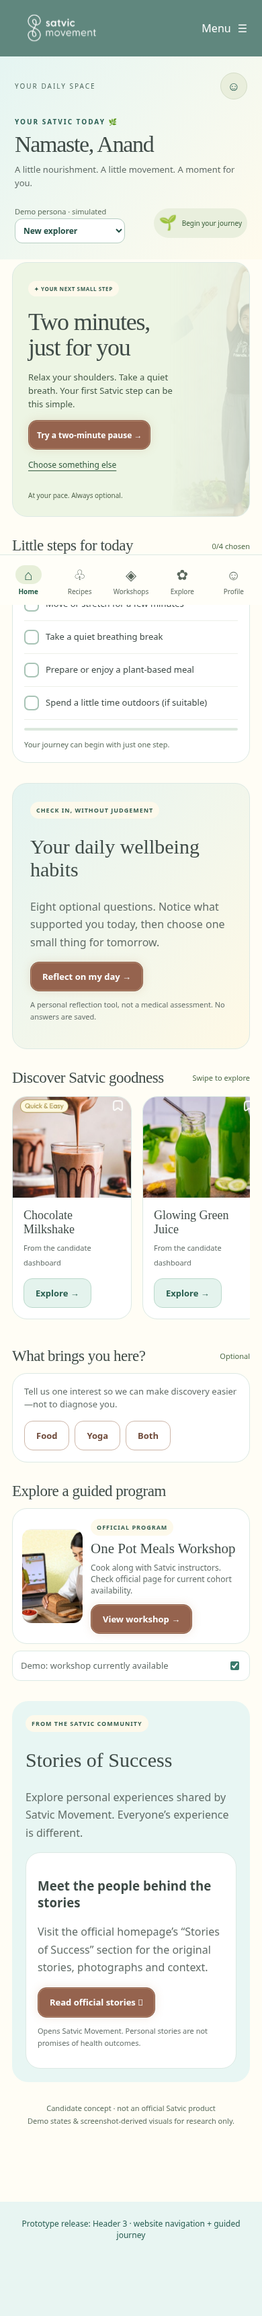
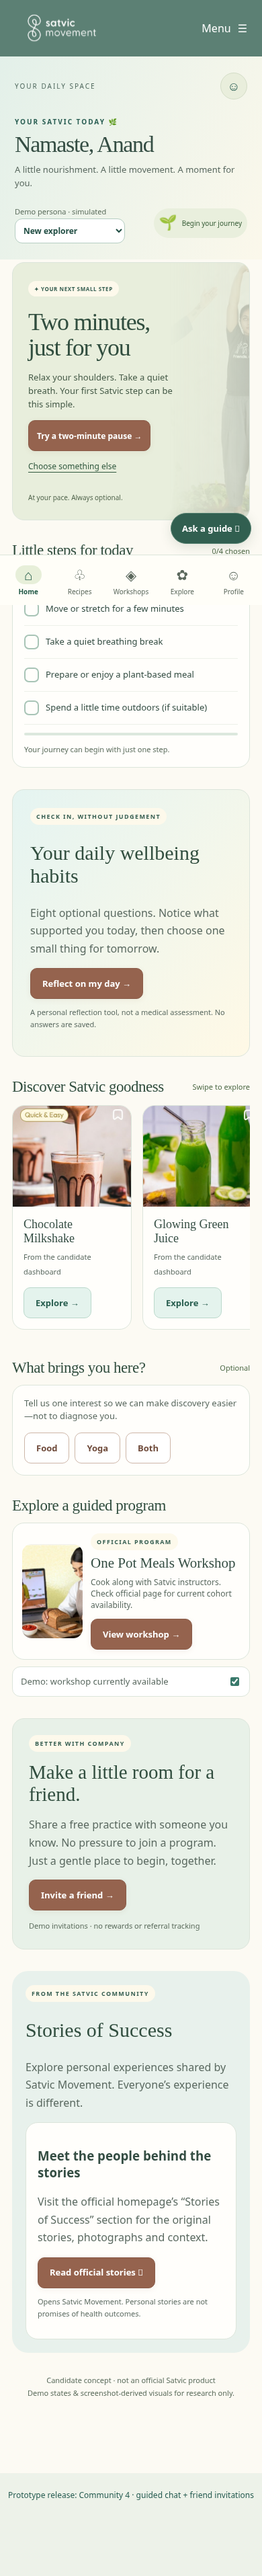
Add guided discovery chat and shareable friend invitations

diff --git a/community.js b/community.js
@@ -1,0 +1,37 @@
+// Local prototype guidance; no messages or referral events are sent to a server.
+let chatMessages = [], referralStatus = '';
+function startCommunity(type){
+ if(type==='chat')chatMessages=[{who:'guide',text:'Namaste. What would make today a little easier? I can help you find a short practice, a recipe or a guided program.'}];
+ if(type==='referral'){referralStatus='';if(!state.referralCode||!/^demo-[a-f0-9]{12}$/.test(state.referralCode)){const bytes=crypto.getRandomValues(new Uint8Array(6));state.referralCode='demo-'+Array.from(bytes,x=>x.toString(16).padStart(2,'0')).join('');save();}}
+}
+function referralUrl(){const url=new URL('./',location.href);url.searchParams.set('ref',state.referralCode);return url.href;}
+async function copyInvitation(){
+ const input=document.getElementById('referral-url');
+ try{await navigator.clipboard.writeText(referralUrl());referralStatus='Invitation link copied. Share it with someone you know.';}
+ catch{input.focus();input.select();referralStatus='Select and copy this link to share your invitation.';}
+ const status=document.getElementById('referral-status');if(status)status.textContent=referralStatus;
+}
+async function shareInvitation(){
+ if(!navigator.share){await copyInvitation();return;}
+ try{await navigator.share({title:'A small Satvic step, together',text:'Try a free two-minute pause with me. This is a Satvic concept prototype.',url:referralUrl()});}
+ catch(e){if(e.name!=='AbortError')await copyInvitation();}
+}
+function askGuide(message){
+ const text=String(message).trim().slice(0,300);if(!text)return;
+ let answer='Start with what feels manageable. Try a quiet pause, explore a recipe, or view guided programs. What interests you most?',action='';
+ if(/pain|diabet|disease|medic|cure|diagnos|symptom|eczema|treat/i.test(text))answer='I can help with finding general wellbeing content, but cannot assess symptoms, diagnose or recommend treatment. Please speak with a qualified healthcare professional about medical questions.';
+ else if(/refer|friend|invite|peer/i.test(text)){answer='A small practice can be easier with company. Create a demo invitation link for a friend. There are no rewards or tracked referrals in this prototype.';action='referral';}
+ else if(/food|meal|recipe|cook/i.test(text)){answer='Make your next step something nourishing. Browse the recipe collection and open the official source for preparation details.';action='Recipes';}
+ else if(/class|program|workshop|yoga|price|enrol/i.test(text)){answer='Explore guided programs at your pace. Current prices, schedules and enrollment are available on the official program pages.';action='Workshops';}
+ else if(/pause|stress|breath|sleep|quiet|begin|start/i.test(text)){answer='Begin with two minutes of gentle breathing. There is no breath holding, and you can pause or leave whenever you like.';action='practice';}
+ chatMessages.push({who:'you',text},{who:'guide',text:answer,action});chatMessages=chatMessages.slice(-12);render();document.getElementById('chat-input')?.focus();document.querySelector('.chat-log')?.scrollTo(0,99999);
+}
+function guideAction(action){if(['Recipes','Workshops'].includes(action)){closeModal();tab(action);}else openModal(action);}
+function communityModal(){
+ if(!state.modal||!['chat','referral'].includes(state.modal.type))return null;
+ const isChat=state.modal.type==='chat';const title=isChat?'Find your next step':'A small step, shared';
+ const body=isChat?`<p class="hint">Scripted prototype guide · not AI or a human adviser. Messages stay in this visit. Please do not enter personal or medical details.</p><div class="chat-log" role="log" aria-live="polite" aria-label="Conversation">${chatMessages.map(m=>`<div class="chat-message ${m.who}"><span>${m.who==='you'?'You':'Satvic guide'}</span><p>${h(m.text)}</p>${m.action?`<button class="btn secondary" onclick="guideAction('${m.action}')">${({practice:'Try a free pause',Recipes:'Explore recipes',Workshops:'View programs',referral:'Invite a friend'})[m.action]}</button>`:''}</div>`).join('')}</div><div class="chat-suggestions">${['Help me begin','Easy meal ideas','Explore yoga','Invite a friend'].map(t=>`<button onclick="askGuide('${t}')">${t}</button>`).join('')}</div><form onsubmit="event.preventDefault();askGuide(document.getElementById('chat-input').value)"><label for="chat-input">What are you looking for?</label><div class="chat-compose"><input id="chat-input" maxlength="300" autocomplete="off" placeholder="A practice, recipe or program…" required><button class="btn" type="submit">Send</button></div></form>`:`<p>Know someone who could use a quiet moment? Invite them to try a free practice before exploring anything else.</p><ol class="referral-steps"><li>Share your invitation link.</li><li>Your friend tries a two-minute pause.</li><li>Explore and keep going at your own pace.</li></ol><label for="referral-url">Your demo invitation link</label><input class="referral-input" id="referral-url" readonly value="${h(referralUrl())}"><div class="actions"><button class="btn" onclick="copyInvitation()">Copy invitation link</button><button class="btn secondary" onclick="shareInvitation()">Share with a friend</button></div><p id="referral-status" role="status">${h(referralStatus)}</p><p class="hint">Demo referral program. No rewards, account attribution, clicks or sign-ups are tracked. Only a random demo link code is stored on this device; no contacts are collected.</p>`;
+ return `<div class="modalback" onclick="closeModal()"><section class="modal community-modal" role="dialog" aria-modal="true" aria-label="${title}" onclick="event.stopPropagation()"><button class="x" aria-label="Close dialog" onclick="closeModal()">✕</button><div class="eyebrow">A little guidance. A little company.</div><h2>${title}</h2>${body}</section></div>`;
+}
+function inviteCard(){return `<section class="section invite-section"><div class="card invite-card"><span class="pill">BETTER WITH COMPANY</span><h2>Make a little room for a friend.</h2><p>Share a free practice with someone you know. No pressure to join a program. Just a gentle place to begin, together.</p><button class="btn" onclick="openModal('referral')">Invite a friend →</button><span class="hint">Demo invitations · no rewards or referral tracking</span></div></section>`;}
+function invitationBanner(){const ref=new URLSearchParams(location.search).get('ref');return /^demo-[a-f0-9]{12}$/.test(ref||'')?`<aside class="invitation-banner"><span class="pill">A FRIEND INVITED YOU</span><h2>A quiet beginning, shared with you.</h2><p>Try a free two-minute pause. No account needed. This is a demo invitation; no referral is tracked.</p><button class="btn" onclick="openModal('practice')">Try my first pause</button></aside>`:'';}

diff --git a/app.js b/app.js
@@ -86,6 +86,7 @@ for (const [key, value] of Object.entries(state.history))
     ? [...new Set(value.filter((n) => Number.isInteger(n) && n >= 0 && n < 4))]
     : [];
 state.modal = null;
+if(/^demo-[a-f0-9]{12}$/.test(new URLSearchParams(location.search).get('ref')||'')) state.tab='Home';
 const checked = () => state.history[today()] || [];
 function streak() {
   let d = new Date(),
@@ -117,6 +118,7 @@ let modalTrigger = null;
 function openModal(type, id) {
   if(!state.modal) modalTrigger = document.activeElement;
   startJourney(type);
+  startCommunity(type);
   state.modal = { type, id };
   render();
   document.querySelector(".modal .x").focus();
@@ -206,7 +208,7 @@ function onboard() {
   return `<section class="section"><div class="card practice"><span class="pill">WELCOME · STEP ${k + 1} OF 3</span><h2>${["A gentle beginning", "Choose what interests you", resolveNextAction(state.persona, state.goal).title][k]}</h2><p class="muted">${["We’ll help you find your next meaningful step.", "Start with an interest; you can always change it.", resolveNextAction(state.persona, state.goal).description][k]}</p>${k === 1 ? `<div class="actions">${["Food", "Yoga", "Both"].map((x) => `<button class="btn ${state.goal === x ? "" : "ghost"}" onclick="update({goal:'${x}'})">${x}</button>`).join("")}</div>` : ""}<div class="actions"><button class="btn" onclick="update({onboard:${k + 1}})">${k === 2 ? "Finish setup" : "Continue"} →</button><button class="btn secondary" onclick="update({onboard:3})">Skip</button></div></div></section>`;
 }
 function home() {
-  return `${hero()}${onboard()}${practice()}${wellbeing()}${content()}${goals()}${workshop()}${stories()}`;
+  return `${invitationBanner()}${hero()}${onboard()}${practice()}${wellbeing()}${content()}${goals()}${workshop()}${inviteCard()}${stories()}`;
 }
 function secondary() {
   let p = state.tab;
@@ -219,6 +221,7 @@ function secondary() {
   return `<div class="section-title"><h2>Your journey</h2></div><div class="card practice"><h3>Welcome, Anand 🌱</h3><p class="muted">Demo profile. Preferences and daily check-ins save locally.</p><div class="switchline">Daily reminder (demo only)<input type="checkbox" aria-label="Daily reminder" ${state.reminder ? "checked" : ""} onchange="update({reminder:this.checked})"></div><button class="btn secondary" onclick="resetDemo()">Reset demo data</button></div>`;
 }
 function modal() {
+  const community=communityModal();if(community!==null)return community;
   const custom=specialModal(); if(custom!==null)return custom;
   if (!state.modal) return "";
   let m = state.modal;
@@ -285,7 +288,7 @@ function render() {
   const focusLabel = focus?.getAttribute("aria-label");
   const focusText = focus?.tagName === "BUTTON" ? focus.textContent : null;
   document.getElementById("app").innerHTML =
-    `<div id="page-content" ${state.modal ? "inert" : ""}>${header()}${!storageAvailable ? '<div class="notice" role="status">Storage is unavailable. You can still explore; changes last for this visit.</div>' : ""}<div class="content screen">${state.tab === "Home" ? home() : secondary()}<p class="hint">Candidate concept · not an official Satvic product<br>Demo states & screenshot-derived visuals for research only.</p></div>${nav()}</div>${modal()}`;
+    `<div id="page-content" ${state.modal ? "inert" : ""}>${header()}${!storageAvailable ? '<div class="notice" role="status">Storage is unavailable. You can still explore; changes last for this visit.</div>' : ""}<div class="content screen">${state.tab === "Home" ? home() : secondary()}<p class="hint">Candidate concept · not an official Satvic product<br>Demo states & screenshot-derived visuals for research only.</p></div>${nav()}<button class="guide-launcher" onclick="openModal('chat')" aria-label="Open Satvic guide">Ask a guide <span aria-hidden="true">↗</span></button></div>${modal()}`;
   if (!state.modal) {
     const target = focusLabel
       ? document.querySelector(`[aria-label="${CSS.escape(focusLabel)}"]`)
@@ -300,7 +303,7 @@ function render() {
 document.addEventListener("keydown", (e) => {
   if (e.key === "Escape" && state.modal) closeModal();
   if (e.key === "Tab" && state.modal) {
-    const items = [...document.querySelectorAll(".modal button,.modal a")];
+    const items = [...document.querySelectorAll(".modal button,.modal a,.modal input:not([disabled])")];
     const first = items[0],
       last = items.at(-1);
     if (e.shiftKey && document.activeElement === first) {

diff --git a/styles.css b/styles.css
@@ -880,3 +880,7 @@ body{background:#e8f5f2}.top{background:linear-gradient(130deg,#e5f5f2,#fffbed)}
 @media(max-width:1100px){.site-links{gap:15px}.site-header-inner{gap:20px;padding-inline:22px}.site-links a,.site-links summary{font-size:14px}.site-logo img{width:130px}.site-links .contact-pill{padding-inline:16px}}
 @media(max-width:1000px){.site-header-inner{flex-wrap:wrap;min-height:84px;position:relative;padding:16px 22px}.site-logo img{width:140px;height:46px}.site-menu{flex:0}.site-menu>summary{display:flex;align-items:center;gap:10px;min-height:44px;cursor:pointer;list-style:none;color:white}.site-menu>summary::-webkit-details-marker{display:none}.site-menu[open]>.site-links{display:flex}.site-links{position:absolute;top:100%;left:0;right:0;padding:16px 22px 24px;background:#60877e;z-index:15;flex-direction:column;align-items:stretch;gap:5px;box-shadow:0 14px 18px #285d5225;max-height:75dvh;overflow:auto}.site-links>a{padding:10px 0;min-height:44px}.site-links summary{font-size:16px}.site-links a{font-size:16px}.dropdown-panel{position:static;max-width:none;box-shadow:none;margin-bottom:8px}.site-links .contact-pill{text-align:center;margin-top:8px;padding:10px}.site-dropdown>summary{justify-content:space-between}.content{overflow:hidden}}
 @media(min-width:1001px){.site-menu::details-content{content-visibility:visible!important;display:block!important}}
+/* Consistent editorial rhythm and a useful, quiet community layer. */
+:root{--cream:#fcfaf3;--paper:#fffefb;--ink:#344d43;--muted:#5b6a61;--line:#dce5db}
+body{background:#edf2e9}.top{background:linear-gradient(115deg,#e3f0e9,#fbf8eb)}.section{margin-bottom:32px}.hero{background:#e8eedc}.card{border-radius:18px}.pill{letter-spacing:1.4px;font-size:9px}.btn{box-shadow:0 2px 8px #80513b15;min-height:46px;border-radius:10px}.btn:hover{box-shadow:0 3px 14px #95634e35}.hero h2,.section-title h2,.reflection-card h2,.stories h2,.invite-card h2{color:#304d3e}.invite-section{grid-column:1/-1}.invite-card{padding:30px;background:#e8f1e8;display:flex;align-items:flex-start;flex-direction:column;gap:14px}.invite-card h2{font:400 34px/1.15 Georgia,serif;margin:0;max-width:450px}.invite-card p{max-width:570px;line-height:1.7;margin:0;color:var(--muted)}.guide-launcher{position:fixed;right:24px;bottom:100px;z-index:9;background:#315f50;color:white;border:1px solid #537f6e;border-radius:30px;padding:13px 20px;min-height:46px;font:600 13px system-ui;box-shadow:0 4px 18px #294d3925}.guide-launcher:focus-visible{outline:3px solid #c98e4e;outline-offset:3px}.community-modal label{font:600 13px system-ui;display:block;margin:16px 0 8px}.chat-log{max-height:32dvh;overflow:auto;display:flex;flex-direction:column;gap:14px;margin:20px 0}.chat-message{padding:16px;background:#edf3e9;border-radius:14px;margin-right:18px}.chat-message.you{background:#f7eee2;margin-left:25px;margin-right:0}.chat-message span{font:600 11px system-ui;color:#426650}.chat-message p{font-size:14px;margin:6px 0;overflow-wrap:anywhere}.chat-suggestions{display:flex;flex-wrap:wrap;gap:7px}.chat-suggestions button{border:1px solid #b9ccbe;background:white;color:#315c46;border-radius:20px;padding:10px 12px;min-height:44px;font:12px system-ui}.chat-compose{display:flex;gap:8px}.chat-compose input,.referral-input{min-width:0;flex:1;width:100%;font:16px system-ui;border:1px solid #b3c7b9;border-radius:10px;padding:12px;background:#fffefa;color:#344d43}.chat-compose input:focus-visible,.referral-input:focus-visible{outline:3px solid #b07722;outline-offset:2px}.referral-steps{padding-left:24px;line-height:2;color:var(--muted)}#referral-status{font-size:13px;min-height:22px}.invitation-banner{grid-column:1/-1;padding:24px;border:1px solid #cfddbd;background:#f5f5e4;border-radius:18px;margin-bottom:24px}.invitation-banner h2{font:400 29px Georgia,serif}.invitation-banner p{line-height:1.6}.site-header{background:#5c8074}.site-links{gap:20px}.site-links a,.site-links summary{font-size:14px}.stories{background:#e8f1ec}.hero-note,.hint{line-height:1.7}
+@media(max-width:599px){.guide-launcher{right:16px;bottom:91px;padding:12px 16px}.invite-card{padding:24px}.invite-card h2{font-size:29px}.community-modal{padding:22px 18px}.chat-compose .btn{padding:12px}.chat-message{padding:13px}.site-links{background:#5c8074}}

diff --git a/index.html b/index.html
@@ -8,12 +8,13 @@
     />
     <meta name="theme-color" content="#e4f3e9" />
     <title>Your Satvic Today · Product concept</title>
-    <link rel="stylesheet" href="styles.css?v=header-3" />
+    <link rel="stylesheet" href="styles.css?v=community-4" />
   </head>
   <body>
     <main id="app" class="shell"></main>
-    <p style="text-align:center;font:12px system-ui;color:#285d52;padding:12px 12px 100px">Prototype release: Header 3 · website navigation + guided journey</p>
-    <script src="journey.js?v=header-3"></script>
-    <script src="app.js?v=header-3"></script>
+    <p style="text-align:center;font:12px system-ui;color:#285d52;padding:12px 12px 100px">Prototype release: Community 4 · guided chat + friend invitations</p>
+    <script src="journey.js?v=community-4"></script>
+    <script src="community.js?v=community-4"></script>
+    <script src="app.js?v=community-4"></script>
   </body>
 </html>

diff --git a/QA_REPORT.md b/QA_REPORT.md
@@ -42,3 +42,9 @@ The official homepage returned HTTP 403 from the cloud environment. The Stories 
 ## Reference header update
 
 Added a full-width muted green website header with supplied white logo, desktop navigation dropdowns, Contact Us pill and a compact mobile menu. Added browser checks for mobile opening/closing, Escape, dropdown navigation to Recipes and Workshops, and desktop dropdown access. Existing full interaction suite and 320/375/390/430/1280px overflow checks are retained; screenshots refreshed. Careers and Contact intentionally lead to the official homepage because dedicated route URLs remain unverified. Shop/Books clearly identify the supplied external development store. This update does not assert external-link reachability. Manual screen-reader and real-device checks remain pending.
+
+## Community 4 update
+
+Added `community.js`: a clearly labeled scripted guide with quick replies and typed input, deterministic content routing, medical-question boundaries, escaped message rendering and no external chat requests. Added referral invitation generation, clipboard/manual-copy and native-share paths, a valid-code arrival banner and a direct free-practice CTA. Referrals are marked as demo, with no tracking or incentives. Refined typography, card spacing, color consistency and button effects while retaining the supplied logo and website navigation.
+
+Browser coverage adds chat recipe routing, typed medical-question handling, HTML text escaping, invitation generation, clipboard copy, invited arrival and free-practice access. Native OS share sheets and manual clipboard fallback require device review and are not claimed tested. Existing journey and responsive checks remain required. Updated screenshots include guide and referral dialogs. Official-site live access remains unverified; visual direction follows the supplied references. No claim of increased funnel conversion is made without real measurements.

diff --git a/README.md b/README.md
@@ -63,3 +63,9 @@ Choose **Deploy from a branch**, branch **main**, folder **/ (root)**, then **Sa
 ## Guided first-value experience
 
 `journey.js` implements a timed breathing guide, optional feelings check-in and completion choices before broader discovery. The timer stops on dialog dismissal and supports pause/resume and skipping. Only completed practices can be logged. An eight-question optional wellbeing reflection shows a transparent habits tally rather than a medical assessment; its answers and feelings are not persisted. The supplied SVG brand mark is shown on a green backing. Persona animations respect reduced-motion preferences. Official story discovery links to the supplied Satvic homepage because individual story URLs could not be verified from this environment.
+
+## Guided chat and friend invitations
+
+The persistent **Ask a guide** button opens a local, scripted conversational guide for practices, recipes, programs and invitations. Typed messages are rendered as text, limited to 300 characters and not sent to a server. The guide is explicitly labeled as scripted, not AI or a human adviser. It does not collect leads or provide medical advice.
+
+Home includes **Invite a friend**. A random device-local demo code creates a link with a `ref` query parameter. Copy uses the browser clipboard with manual-copy fallback; Share uses the native share sheet where supported. Valid incoming demo links show a welcome and a direct free-practice action. Codes contain no account identity. This is an interactive referral concept: no attribution backend, referral counts, rewards, signup tracking, email campaigns or conversion analytics are implemented. Production referral eligibility, incentives and consent would require a separate defined service.
